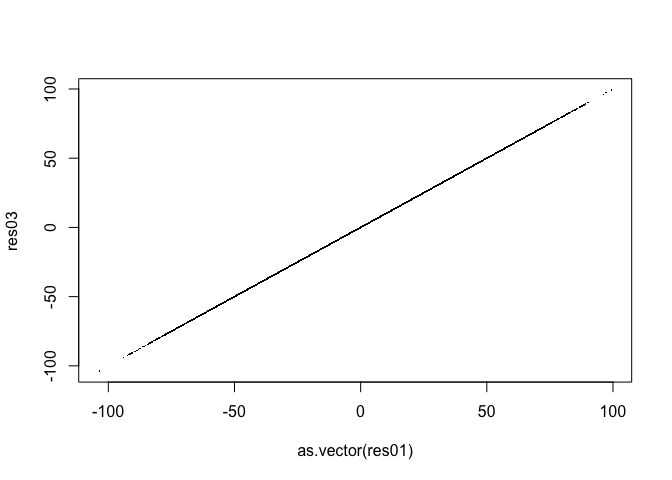
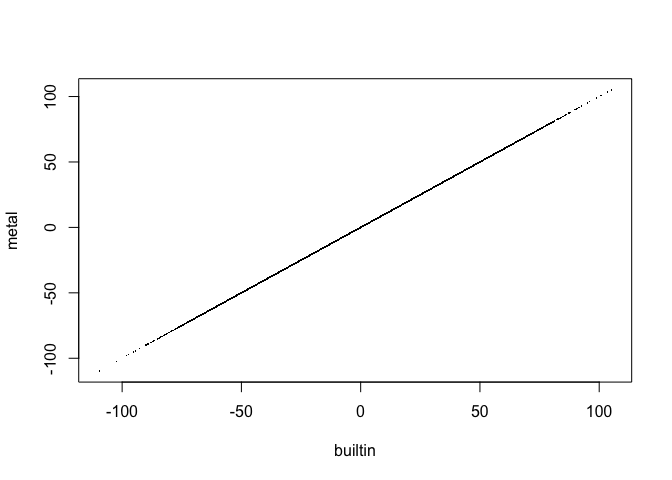
readme edits, initial workflow stuff

diff --git a/README.md b/README.md
@@ -1,7 +1,7 @@
-ardea 0.0.3
+ardea 0.0.6
 ================
 Nicholas Cooley
-2026-09-16
+2026-09-17
 
 - [Introduction](#introduction)
 - [Installation](#installation)
@@ -11,24 +11,30 @@ Nicholas Cooley
   - [Other](#other)
 - [Example Code](#example-code)
 
+<!-- badges: start -->
+
+[![R-CMD-check](https://github.com/npcooley/ardea/actions/workflows/R-CMD-check.yaml/badge.svg)](https://github.com/npcooley/ardea/actions/workflows/R-CMD-check.yaml)
+[![Lifecycle:
+maturing](https://img.shields.io/badge/lifecycle-maturing-orange.svg)](https://lifecycle.r-lib.org/articles/stages.html)
+<!-- badges: end -->
+
+``` r
+knitr::opts_chunk$set(results = 'hold')
+```
+
 # Introduction
 
-*Currently under construction! This package works on at least one mac,
-and one server running an A30.* *CRAN submission will be happening
-soon!*
+*This package has been recently submitted to CRAN, and is relatively
+stable. It has only been thoroughly tested on a Mac M4, and a linux
+server running an NVIDIA A30.*
 
 This package is an attempt at building out infrastructure for users to
-dispatch code directly to GPU devices in R. The package uses OpenCL as
-an ‘parent’ capability requirement, allowing it to build on machines
-regardless of device vendor, or on machines that do not have a device
-present.
-
-This package is currently designed to work wherever R works. During
-installation, it probes the system for the ability to successfully
-compile and run simple `Hello World` style device probes for target
-frameworks and their devices. Capabilities for specific frameworks are
-only compiled if the tooling for those frameworks is successfully
-detected.
+dispatch code directly to GPU devices in R. It is currently designed to
+work wherever R works. During installation, it probes the system for the
+ability to successfully compile and run simple `Hello World` style
+device probes for target frameworks and their devices. Capabilities for
+specific frameworks are only compiled if the tooling for those
+frameworks is successfully detected.
 
 Because I do not have a Windows development environment, Windows is not
 currently supported.
@@ -36,20 +42,22 @@ currently supported.
 # Installation
 
 `ardea` goes through a fair amount of gymnastics to detect capabilities
-and manage installation. The `ARDEA_<FRAMEWORK>_<KEYWORD>` environment
-variables that the configure script ingests if present are used *during
-build*, so users can hypothetically build out containers that may land
-on diverse resources where these can be re-set for the new environment.
+and manage installation. A series of `ARDEA_<FRAMEWORK>_<KEYWORD>`
+environment variables will be ingested by the configure script if
+present and are used *during build*, so users can hypothetically build
+out containers that may land on diverse resources where these can be
+re-set for the new environment.
 
 ## OpenCL
 
-OpenCL is an open source standard for interacting with GPUs and other
-alternative compute devices, regardless of vendor. On Macs, this
-framework is not current, and does not appear to be updateable *but does
-work still*. On Linux systems, default OpenCL installations should be
-detected automatically over the course of package installation. If they
-are not, or users have a non-standard installation, `ardea` checks for
-user environment variables:
+[OpenCL](https://www.khronos.org/opencl/resources) is an open source
+standard for interacting with GPUs and other alternative compute
+devices, regardless of vendor. On Macs, this framework is not current,
+and does not appear to be updateable *but does work still*. On Linux
+systems, default OpenCL installations should be detected automatically
+over the course of package installation. If they are not, or users have
+a non-standard installation, `ardea` checks for user environment
+variables:
 
 - **ARDEA_OPENCL_LIBS**
 - **ARDEA_OPENCL_INCLUDE**
@@ -58,20 +66,22 @@ to specify library and linker locations.
 
 ## Metal
 
-Metal is Apple’s framework for interacting with GPUs and builtin devices
-within their ecosystem. If the package detects Darwin as the OS, Metal
-detection is triggered. Metal has gone through a few changes as Apple
-has used a few different device vendors over the years and though its
-most recent iteration appears focused on Silicon series chips.
+[Metal](https://developer.apple.com/documentation/metal) is Apple’s
+framework for interacting with GPUs and builtin devices within their
+ecosystem. If the package detects Darwin as the OS, Metal detection is
+triggered. Metal has gone through a few changes as Apple has used a few
+different device vendors over the years and though its most recent
+iteration appears focused on Silicon series chips.
 
 Metal capabilities in this package were originally built out in the
 [ACFmetal](https://github.com/npcooley/ACFmetal) github only R package.
 
 ## CUDA
 
-CUDA is NVIDIA’s framework for interacting with NVIDIA devices. Because
-CUDA installations have so many different flavors and many of their own
-peculiarities, CUDA support *requires* user environment variables:
+[CUDA](https://docs.nvidia.com/cuda/) is NVIDIA’s framework for
+interacting with NVIDIA devices. Because CUDA installations can have
+many different flavors and many of their own peculiarities, CUDA support
+*requires* user environment variables:
 
 - **ARDEA_CUDA_LIBS**
 - **ARDEA_CUDA_STUBS**
@@ -113,20 +123,12 @@ management, and returning that function’s result to R.
 library(ardea)
 
 opencl_is_available()
-```
-
-    ## [1] TRUE
-
-``` r
 cuda_is_available()
-```
-
-    ## [1] FALSE
-
-``` r
 metal_is_available()
 ```
 
+    ## [1] TRUE
+    ## [1] FALSE
     ## [1] TRUE
 
 Using matrix multiplication as an example, a user can bring a naive mm
@@ -297,11 +299,6 @@ if (opencl_is_available()) {
   cl_knl <- opencl_make_kernelptr(program = cl_program,
                                   kernel_names = "opencl_mm_naive")
 }
-```
-
-    ## [1] "OpenCL is available on this system!"
-
-``` r
 if (cuda_is_available()) {
   print("CUDA is available on this system!")
   cu_dvcs <- cuda_device_information()
@@ -326,6 +323,7 @@ if (metal_is_available()) {
 }
 ```
 
+    ## [1] "OpenCL is available on this system!"
     ## [1] "Metal is available on this system!"
 
 A simple wrapper function is supplied with `ardea`, though it is mostly
@@ -336,18 +334,7 @@ judgements.
 ``` r
 # our builtin optimized CPU implementation
 print("Builtin implementation:")
-```
-
-    ## [1] "Builtin implementation:"
-
-``` r
 system.time(res01 <- var01 %*% var02)
-```
-
-    ##    user  system elapsed 
-    ##   0.031   0.001   0.031
-
-``` r
 if (opencl_is_available()) {
   print("OpenCL implementation:")
   print(system.time(res02 <- simple_wrapper(framework = "opencl",
@@ -362,13 +349,11 @@ if (opencl_is_available()) {
                                             workers_per = NULL)))
   plot(as.vector(res01),
        res02,
-       pch = 46)
+       pch = 46,
+       xlab = "builtin",
+       ylab = "OpenCL")
 }
 ```
-
-    ## [1] "OpenCL implementation:"
-    ##    user  system elapsed 
-    ##   0.002   0.002   0.017
 
 ![](README_files/figure-gfm/execute_dispatch-1.png)<!-- -->
 
@@ -387,7 +372,9 @@ if (cuda_is_available()) {
                                             workers_per = NULL)))
   plot(as.vector(res01),
        res03,
-       pch = 46)
+       pch = 46,
+       xlab = "builtin",
+       ylab = "CUDA")
 }
 if (metal_is_available()) {
   print("Metal implementation:")
@@ -403,15 +390,23 @@ if (metal_is_available()) {
                                             workers_per = NULL)))
   plot(as.vector(res01),
        res03,
-       pch = 46)
+       pch = 46,
+       xlab = "builtin",
+       ylab = "metal")
 }
 ```
 
+![](README_files/figure-gfm/execute_dispatch-2.png)<!-- -->
+
+    ## [1] "Builtin implementation:"
+    ##    user  system elapsed 
+    ##   0.032   0.000   0.031 
+    ## [1] "OpenCL implementation:"
+    ##    user  system elapsed 
+    ##   0.002   0.003   0.019 
     ## [1] "Metal implementation:"
     ##    user  system elapsed 
     ##   0.001   0.001   0.006
-
-![](README_files/figure-gfm/execute_dispatch-2.png)<!-- -->
 
 This is currently the limit of `ardea`’s functionality. This package
 began mostly as a curiousity project with Metal, and turning it into a
